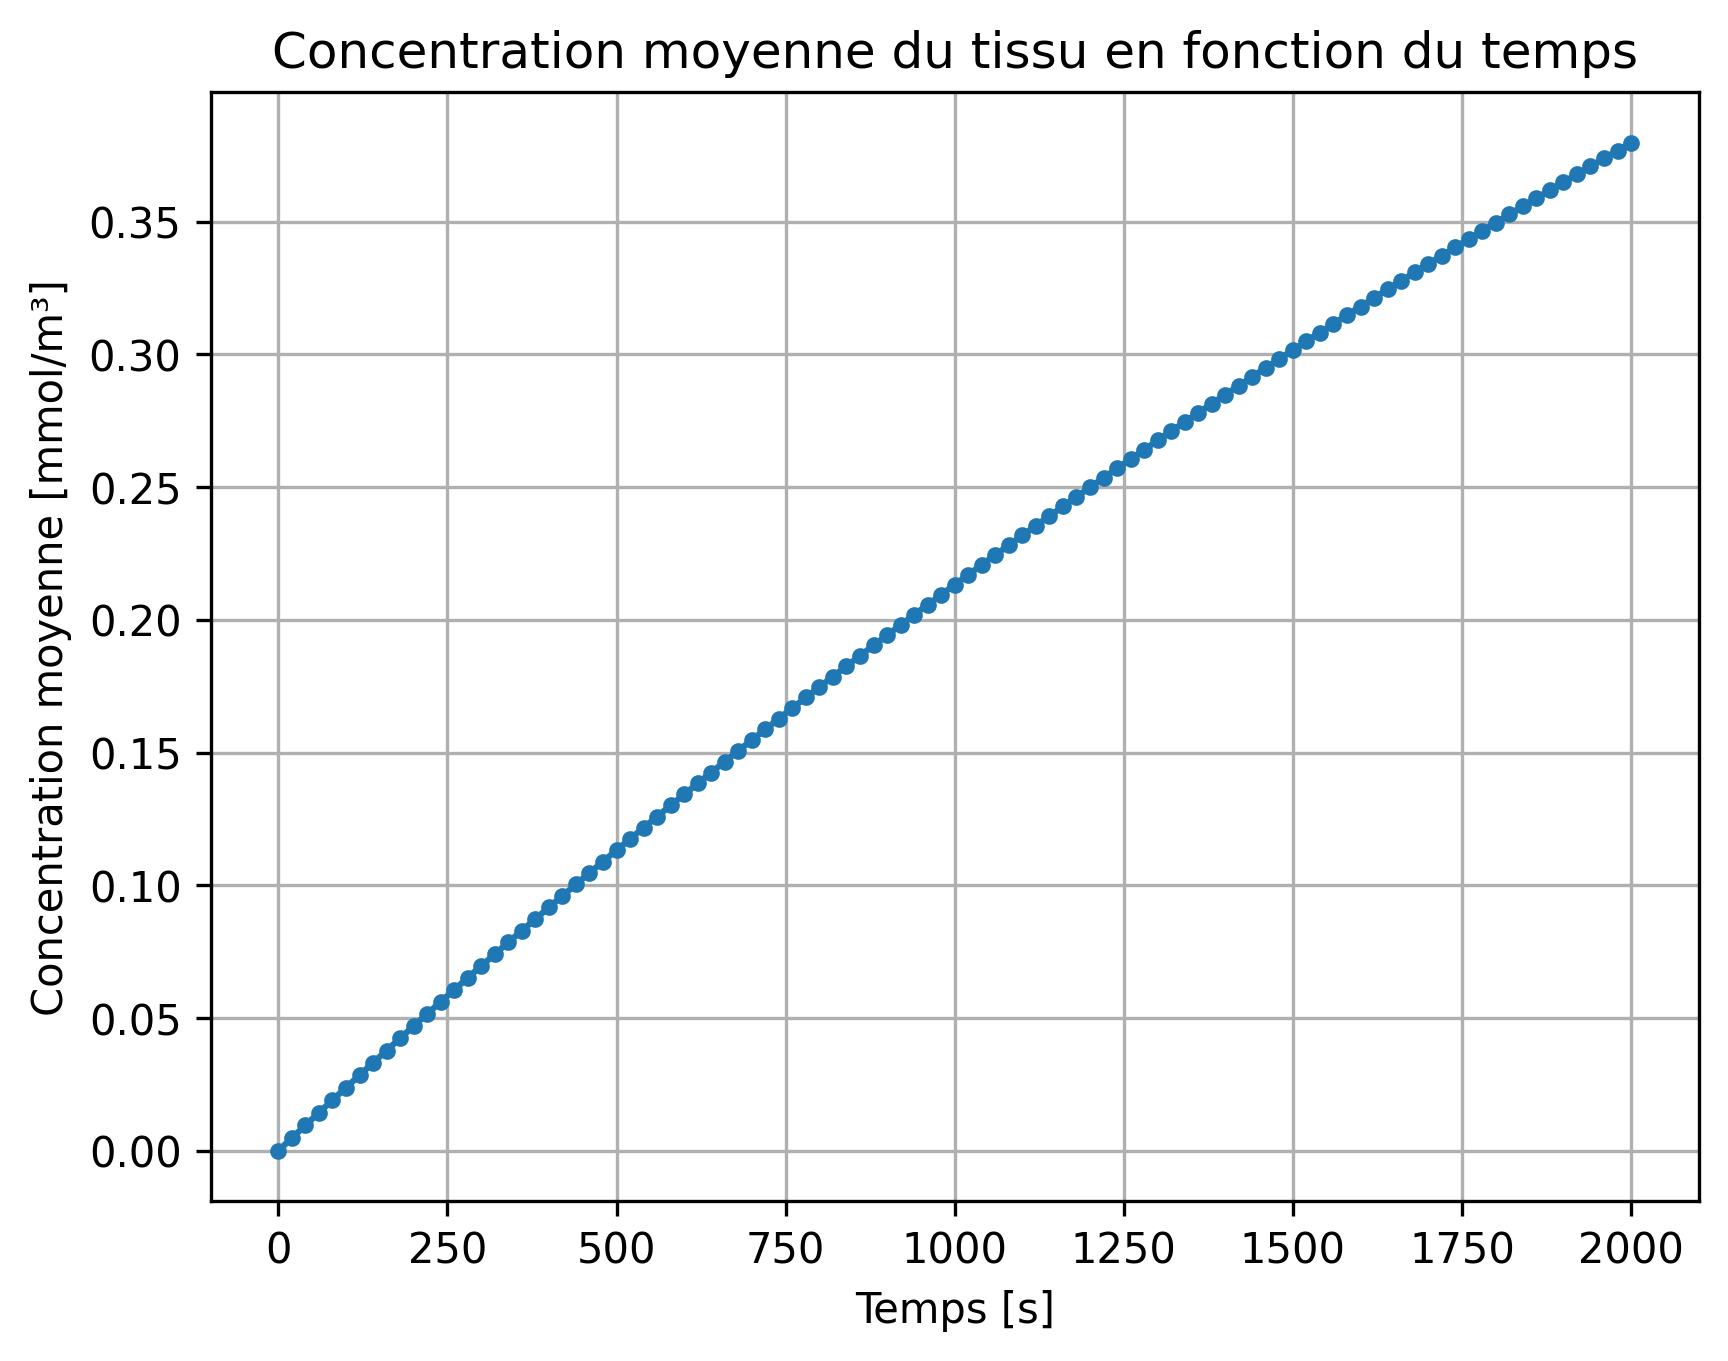
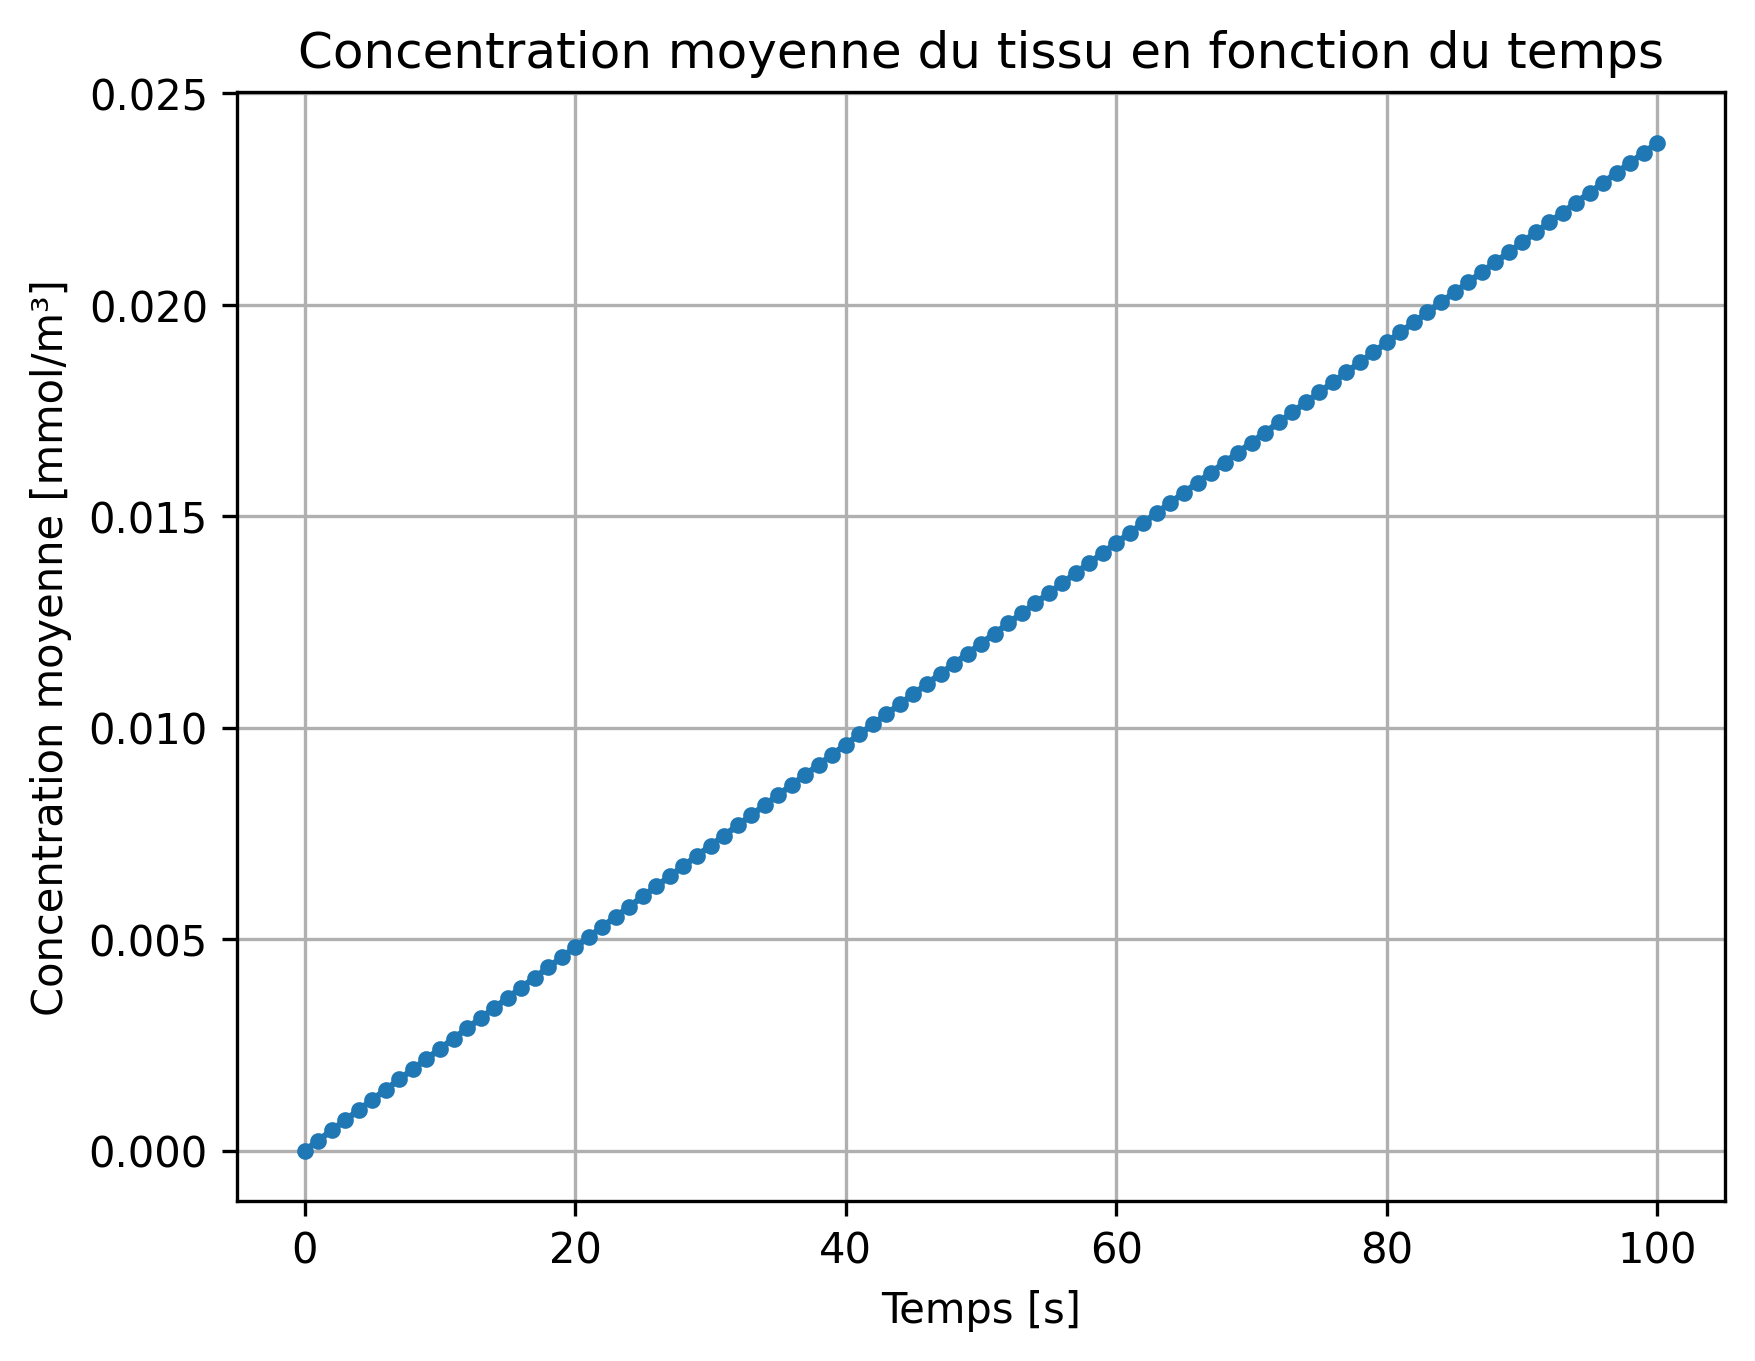
images diffusion krogh

diff --git a/main_krogh.py b/main_krogh.py
@@ -104,7 +104,7 @@ def main():
     # Paramètres temporels
     parser.add_argument("--order", type=int, default=1, help="Polynomial order")
     parser.add_argument("--theta", type=float, default=1.0, help="Theta-scheme")
-    parser.add_argument("--dt", type=float, default=20, help="Time step [s]")
+    parser.add_argument("--dt", type=float, default=1.0, help="Time step [s]")
     parser.add_argument("--nsteps", type=int, default=100, help="Number of time steps")
 
     args = parser.parse_args()
@@ -309,7 +309,7 @@ def main():
         if step + 1 in snapshot_steps:
             snapshots[t_np1] = U.copy()
 
-        if step % 50 == 0 or step == args.nsteps - 1:
+        if step % 2.0 == 0 or step == args.nsteps - 1:
             ax.clear()
 
             # Conversion mol/m³ -> mmol/m³ pour l'affichage.
@@ -365,6 +365,8 @@ def main():
             ticks = [-Rt, -Rt / 2, 0.0, Rt / 2, Rt]
             ax.set_xticks(ticks)
             ax.set_yticks(ticks)
+
+            fig.savefig(f"diffusion_krogh_{int(t_np1)}s.png", dpi=300, bbox_inches="tight")
 
             fig.canvas.draw()
             fig.canvas.flush_events()